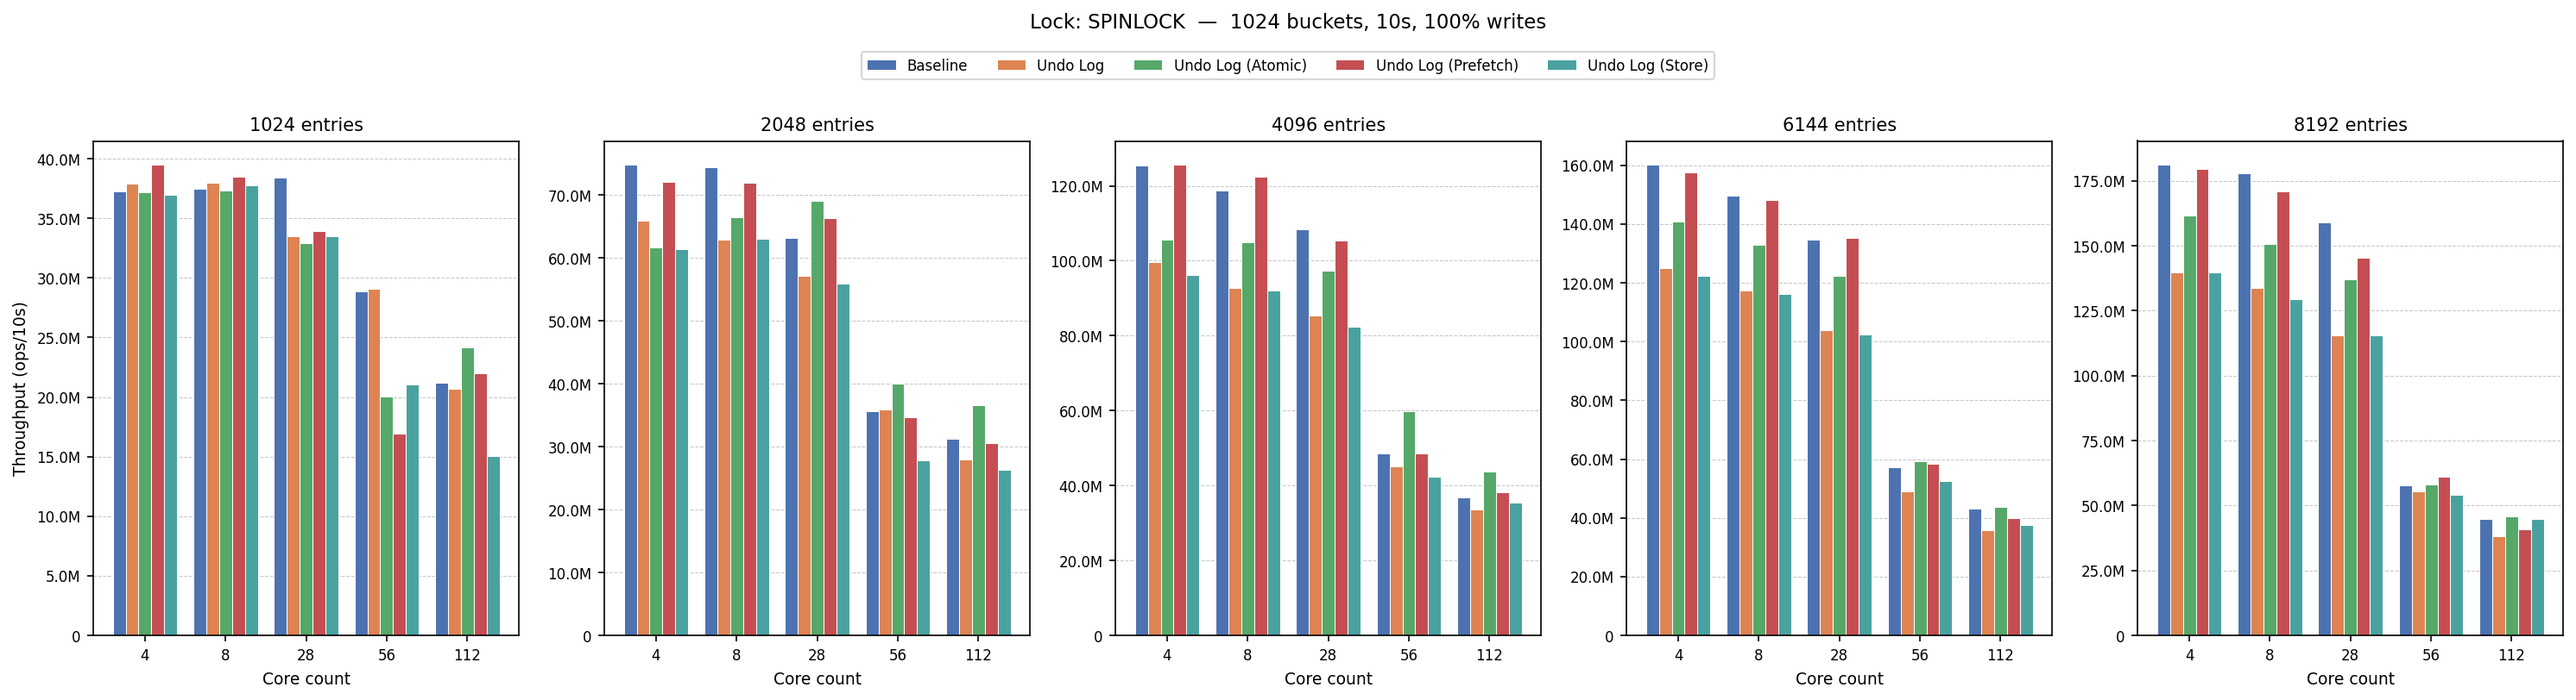
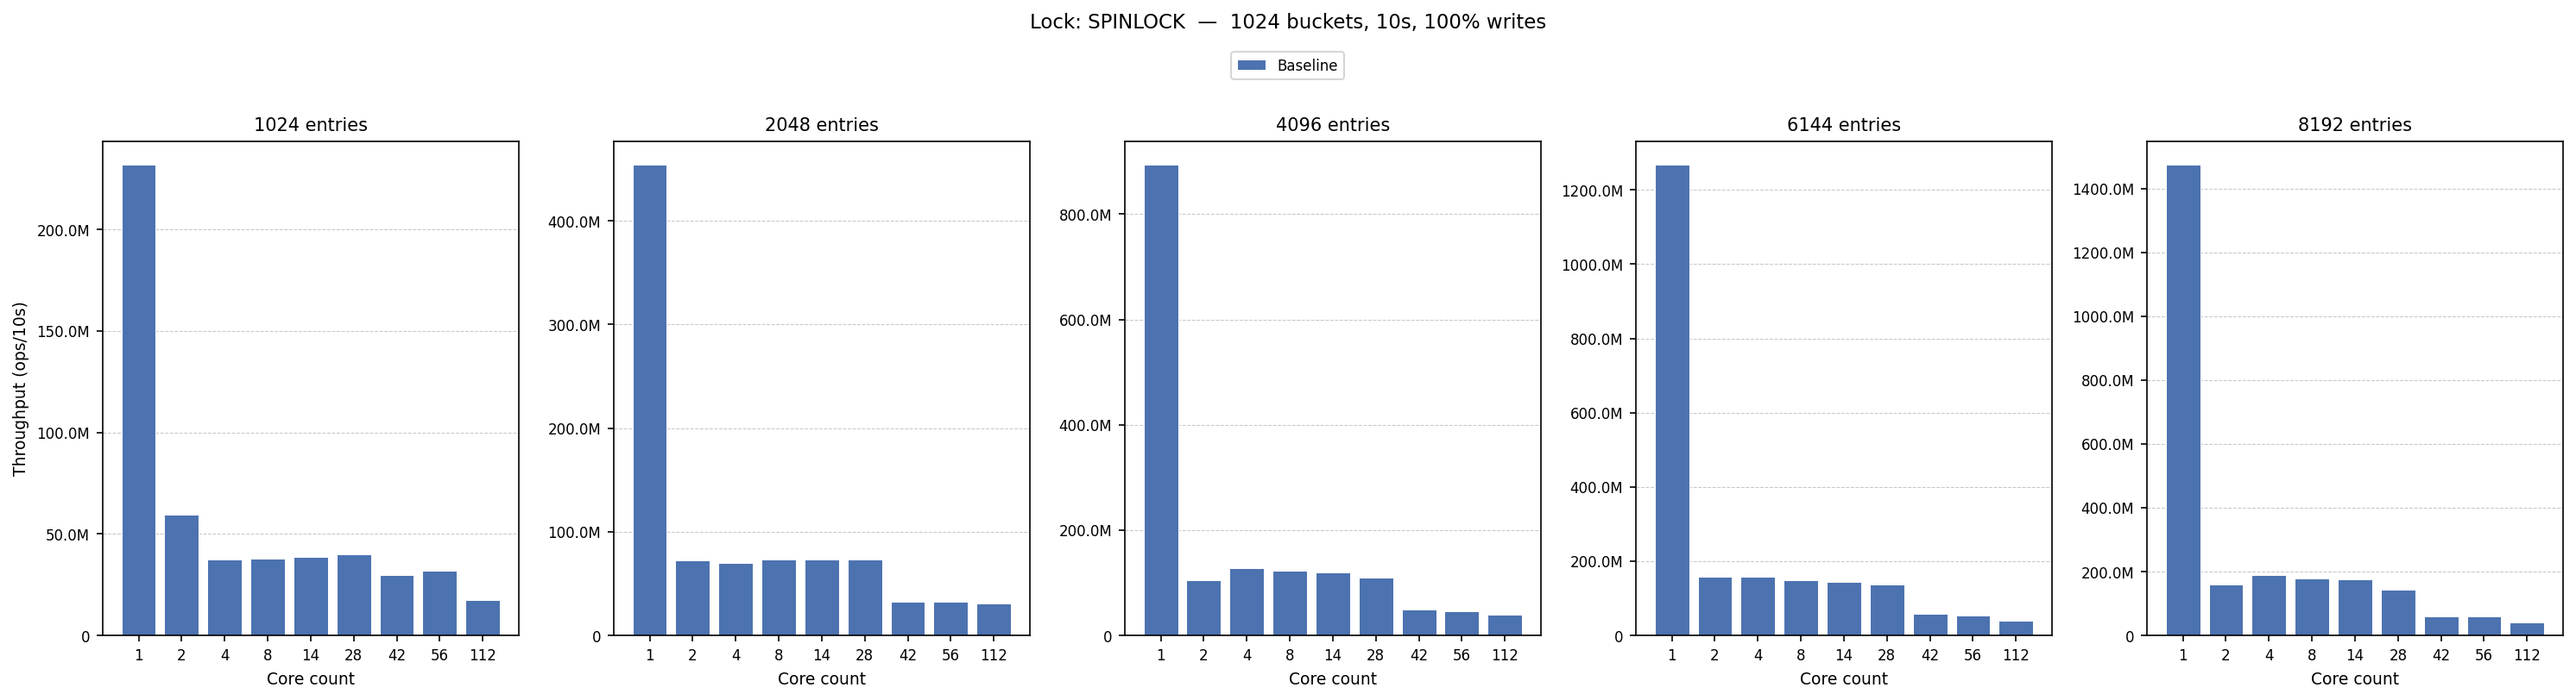
update visualize.py

diff --git a/tools/undolog-test/doc/results/visualize.py b/tools/undolog-test/doc/results/visualize.py
@@ -27,13 +27,13 @@ import pandas as pd
 BASE_DIR = os.path.join(os.path.dirname(__file__), "")
 
 # Servers to include
-SERVERS = ["srv10vm"]
+SERVERS = ["srv1vm"]
 
 # Sub-directory template inside each server folder
 # {max_cores} and {duration} are filled from MAX_CORES / DURATION below
 RESULT_SUBDIR_TEMPLATE = "results-spinlock-{max_cores}cores-{duration}seconds"
-#MAX_CORES = 112
-MAX_CORES = 96
+MAX_CORES = 112
+#MAX_CORES = 96
 DURATION = 10
 
 # Hash-table parameters
@@ -41,14 +41,14 @@ BUCKETS = 1024
 ENTRIES_LIST = [1024, 2048, 4096, 6144, 8192]
 
 # Lock implementations
-LOCKS = ["spinlock", "cna", "aqs"]
+LOCKS = ["spinlock", "bpf_qspinlock"]
 
 # Undo-log variants (suffix after lock name in the directory)
-UNDOLOG_TYPES = ["baseline", "withundolog", "withundologatomic", "withundologprefetch", "withundologstore"]
+UNDOLOG_TYPES = ["baseline"] #, "withundolog", "withundologatomic", "withundologprefetch", "withundologstore"]
 
 # Core counts to include
-# CORE_COUNTS = [4, 8, 28, 56, 112]
-CORE_COUNTS = [8, 24, 48, 72, 96]
+CORE_COUNTS = [1, 2, 4, 8, 14, 28, 42, 56, 112]
+#CORE_COUNTS = [8, 24, 48, 72, 96]
 
 # Write-percentage subdirectory
 WRITE_PCT = "100percent_writes"
@@ -149,13 +149,23 @@ _UNDOLOG_LABELS = {
     "withundologstore": "Undo Log (Store)",
 }
 
+LOCK_COLORS = {
+    "spinlock":            "#4C72B0",
+    "bpf_qspinlock":         "#DD8452",
+}
+LOCK_LABELS = {
+    "spinlock":            "Kernel Qspinlock",
+    "bpf_qspinlock":         "BPF Qspinlock",
+}
 
-def plot_lock_figure(df: pd.DataFrame, server: str, lock: str) -> plt.Figure:
+
+
+def plot_lock_figure(df: pd.DataFrame, server: str, undolog: str) -> plt.Figure:
     """
     Create a figure with one subplot per entries count for a given lock type.
     Each subplot is a grouped bar chart: X = core count, bars = undolog types.
     """
-    lock_df = df[(df["lock"] == lock) & (df["server"] == server)]
+    undolog_df = df[(df["undolog"] == undolog) & (df["server"] == server)]
 
     n_entries = len(ENTRIES_LIST)
     fig, axes = plt.subplots(
@@ -166,26 +176,26 @@ def plot_lock_figure(df: pd.DataFrame, server: str, lock: str) -> plt.Figure:
     if n_entries == 1:
         axes = [axes]
 
-    n_undolog = len(UNDOLOG_TYPES)
+    n_locks = len(UNDOLOG_TYPES)
     x = np.arange(len(CORE_COUNTS))
-    bar_width = 0.8 / n_undolog   # total group width = 0.8
+    bar_width = 0.4 #0.8 / n_locks   # total group width = 0.8
 
     for ax, entries in zip(axes, ENTRIES_LIST):
-        sub = lock_df[lock_df["entries"] == entries]
+        sub = undolog_df[undolog_df["entries"] == entries]
 
-        for i, undolog in enumerate(UNDOLOG_TYPES):
+        for i, lock in enumerate(LOCKS):
             vals = []
             for cores in CORE_COUNTS:
-                row = sub[(sub["undolog"] == undolog) & (sub["cores"] == cores)]
+                row = sub[(sub["lock"] == lock) & (sub["cores"] == cores)]
                 vals.append(int(row["throughput"].iloc[0]) if len(row) else 0)
 
-            offset = (i - n_undolog / 2 + 0.5) * bar_width
+            offset = (i - n_locks / 2 + 0.5) * bar_width
             ax.bar(
                 x + offset,
                 vals,
                 width=bar_width,
-                color=_UNDOLOG_COLORS[undolog],
-                label=_UNDOLOG_LABELS[undolog],
+                color=LOCK_COLORS[lock],
+                label=LOCK_LABELS[lock],
                 edgecolor="white",
                 linewidth=0.5,
             )
@@ -209,14 +219,14 @@ def plot_lock_figure(df: pd.DataFrame, server: str, lock: str) -> plt.Figure:
     fig.legend(
         handles, labels,
         loc="upper center",
-        ncol=n_undolog,
+        ncol=n_locks,
         fontsize=8,
         frameon=True,
         bbox_to_anchor=(0.5, 1.02),
     )
 
     fig.suptitle(
-        f"Lock: {lock.upper()}  —  {BUCKETS} buckets, {DURATION}s, 100% writes",
+        f"Undolog: {undolog.upper()}  —  {BUCKETS} buckets, {DURATION}s, 100% writes",
         fontsize=11,
         y=1.07,
     )
@@ -239,9 +249,9 @@ def main():
     os.makedirs(OUTPUT_DIR, exist_ok=True)
 
     for server in SERVERS:
-        for lock in LOCKS:
-            fig = plot_lock_figure(df, server, lock)
-            out_path = os.path.join(OUTPUT_DIR, f"{server}_{lock}_throughput.png")
+        for undolog in UNDOLOG_TYPES:
+            fig = plot_lock_figure(df, server, undolog)
+            out_path = os.path.join(OUTPUT_DIR, f"{server}_{undolog}_throughput.png")
             fig.savefig(out_path, dpi=DPI, bbox_inches="tight")
             plt.close(fig)
             print(f"Saved: {out_path}")
